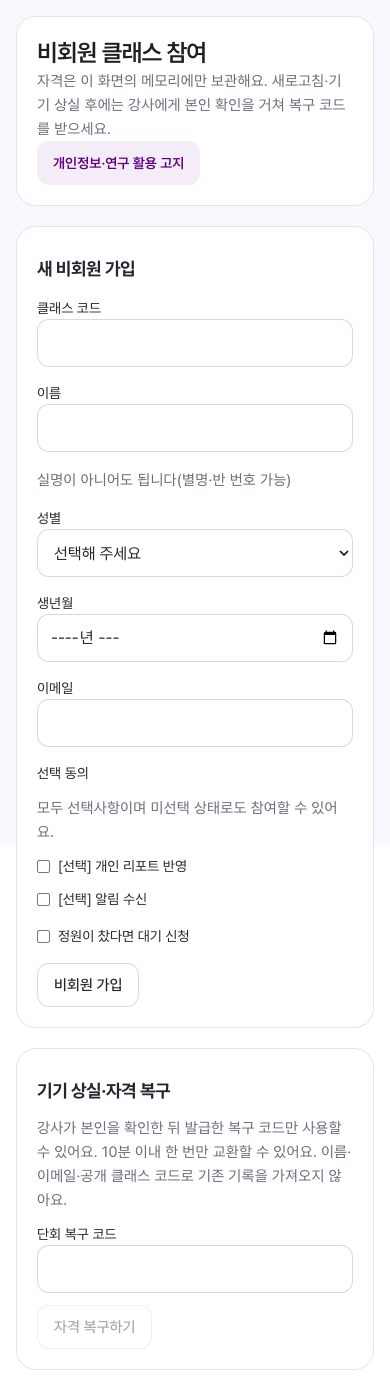
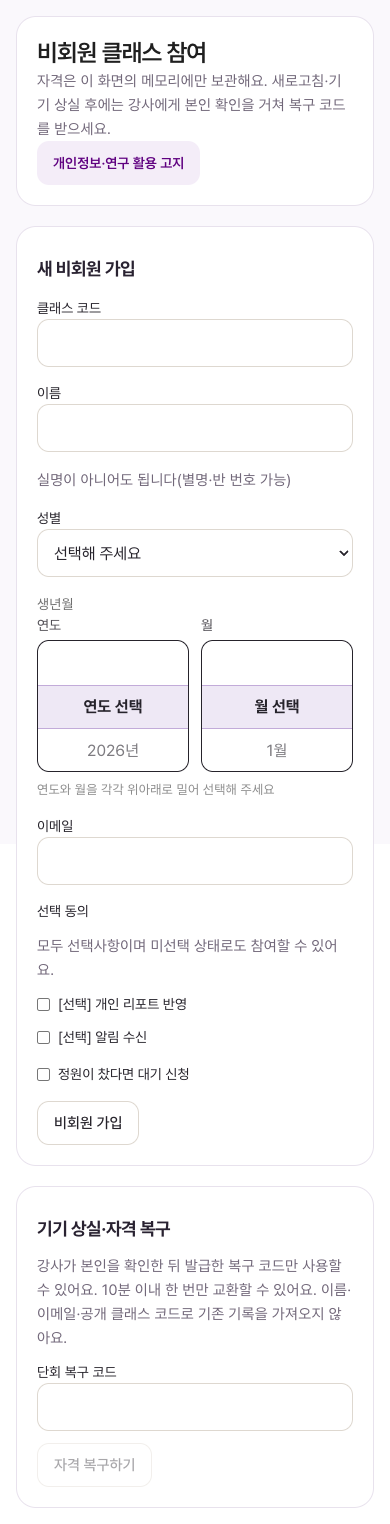
fix: 비회원 생년월을 연도·월 분리 다이얼로 변경

diff --git a/frontend/tests/sdd217-member-operations.test.tsx b/frontend/tests/sdd217-member-operations.test.tsx
@@ -21,13 +21,14 @@ function response(body:unknown,status=200){return new Response(JSON.stringify(bo
 async function mount(node:ReactNode,path='/app/classes/class') { view=document.createElement('div');document.body.append(view);root=createRoot(view);await act(async()=>root.render(<MemoryRouter initialEntries={[path]}>{node}</MemoryRouter>)); }
 async function click(text:string){const button=Array.from(view.querySelectorAll('button')).find(b=>b.textContent===text);expect(button,`버튼 ${text}`).toBeTruthy();await act(async()=>button!.click());}
 function input(label:string,value:string){const field=view.querySelector<HTMLInputElement>(`[aria-label="${label}"]`)!;expect(field).toBeTruthy();const setter=Object.getOwnPropertyDescriptor(HTMLInputElement.prototype,'value')!.set!;setter.call(field,value);field.dispatchEvent(new Event('input',{bubbles:true}));}
+async function chooseBirth(){for(const [label,text] of [['출생 연도','2018년'],['출생 월','1월']])await act(async()=>{Array.from(view.querySelector(`[role="listbox"][aria-label="${label}"]`)!.querySelectorAll<HTMLElement>('[role="option"]')).find(option=>option.textContent===text)!.click();});}
 beforeEach(()=>{calls.length=0;mutationStatus=200;pending=undefined;membership={...membership,member:{...member,status:'active'},capabilities:{...caps}};sessions=[session,{...session,id:'past',status:'completed',seq:1,attendance:{...session.attendance,attendance_status:'absent'},approved_report_ids:['report'],capabilities:{}}];useAuthStore.setState({isAuthenticated:true,user:{id:'user-uuid',email:'user@example.test',name:'회원',role:'client',verified_tier:null,onboarding_completed:true,auth_provider:'email',counselors:[]}});tokenStorage.set('login-token');vi.stubGlobal('IS_REACT_ACT_ENVIRONMENT',true);vi.stubGlobal('fetch',vi.fn(async(url:string,init:RequestInit={})=>{const headers=new Headers(init.headers);const body=init.body?JSON.parse(String(init.body)) as Record<string,unknown>:{};calls.push({url,body,headers});if(init.method==='POST'||init.method==='PUT'){if(pending!==undefined)return new Promise<Response>(resolve=>{pending=resolve;});return response(mutationStatus===200?{class_id:'class',revision:4,credential_bundle:{activity_credential:'activity',read_credential:'read',expires_at:'2099-01-01'},member}: {detail:{code:mutationStatus===409?'stale_class':'action_forbidden'}},mutationStatus);}if(url.endsWith('/me/membership'))return response(membership);if(url.endsWith('/me/attendance'))return response({sessions,total:sessions.length});if(url.endsWith('/participation'))return response({participation_version:7,participants:[]});if(url.endsWith('/reports/report'))return response({id:'report',content:{counselor_comment:'승인된 본인 요약'}});return response({});}));});
 afterEach(async()=>{if(root)await act(async()=>root.unmount());view?.remove();vi.unstubAllGlobals();});
 it('V28 실제 회원 UUID·revision·participation version으로 사전 결석하고 공통 읽기를 갱신한다',async()=>{await mount(<MemberOperations classId="class"/>);await click('사전 결석');const c=calls.find(c=>c.url.endsWith('/attendance')&&c.body.action==='excuse');expect(c?.url).toContain('/members/member-uuid/');expect(c?.body).toMatchObject({action:'excuse',expected_revision:3,expected_participation_version:7});expect(c?.body.operation_key).toBeTruthy();expect(view.textContent).toContain('저장했어요');expect(calls.filter(c=>c.url.endsWith('/me/membership')).length).toBeGreaterThan(1);});
 it.each([403,409])('V28 %s 실패를 명확히 표시하고 최신 내용 다시 불러오기를 제공한다',async(status)=>{mutationStatus=status;await mount(<MemberOperations classId="class"/>);await click('클래스 나가기');expect(view.querySelector('[role="alert"]')?.textContent).toContain(status===409?'최신':'권한');await click('최신 내용 다시 불러오기');});
 it('V29 연속 클릭 중 하나의 쓰기만 보낸다',async()=>{await mount(<MemberOperations classId="class"/>);pending=()=>{};const button=Array.from(view.querySelectorAll('button')).find(b=>b.textContent==='클래스 나가기')!;await act(async()=>{button.click();button.click();});expect(calls.filter(c=>c.url.endsWith('/transition'))).toHaveLength(1);await act(async()=>pending!(response({class_id:'class',revision:4})));});
 it('본인 승인 리포트는 기존 GET으로 보여준다',async()=>{await mount(<MemberOperations classId="class"/>);await click('승인 리포트 보기');expect(view.textContent).toContain('승인된 본인 요약');});
-it('V38 공개 guest 가입은 네 필수 입력·선택 기본 false이며 자격은 header로만 보낸다',async()=>{await mount(<Routes><Route path="/class-members/:classId" element={<GuestClassMembershipPage/>}/></Routes>,'/class-members/class');expect(view.querySelectorAll('input[required], select[required]')).toHaveLength(5);expect(view.textContent).toContain('실명이 아니어도 됩니다(별명·반 번호 가능)');expect(view.textContent).not.toContain('연구 목적 활용 동의');expect(view.querySelector('input[type=month]')).toBeTruthy();await act(async()=>{input('클래스 코드','1234');input('이름','비회원');input('생년월','2018-01');input('이메일','guest@example.test');const gender=view.querySelector('select')!;gender.value='other';gender.dispatchEvent(new Event('change',{bubbles:true}));});const form=view.querySelector('form')!;await act(async()=>form.dispatchEvent(new Event('submit',{bubbles:true,cancelable:true})));const join=calls.find(c=>c.url.endsWith('/guest-memberships'));expect(join?.body).toMatchObject({birth_year_month:'2018-01',guest_name:'비회원',gender:'other',report_email:'guest@example.test',research_consented:false,report_included:false,reminder_opt_in:false});expect(join?.headers.has('Authorization')).toBe(false);expect(calls.find(c=>c.url.endsWith('/me/membership'))?.headers.get('X-Class-Member-Credential')).toBe('activity');expect(view.textContent).not.toContain('연구 목적 활용 동의');expect(view.textContent).not.toContain('연구 동의 명시 철회');expect(JSON.stringify(localStorage)).not.toContain('activity');expect(JSON.stringify(sessionStorage)).not.toContain('activity');});
+it('V38 공개 guest 가입은 네 필수 입력·선택 기본 false이며 자격은 header로만 보낸다',async()=>{await mount(<Routes><Route path="/class-members/:classId" element={<GuestClassMembershipPage/>}/></Routes>,'/class-members/class');expect(view.querySelectorAll('input[required], select[required]')).toHaveLength(4);expect(view.textContent).toContain('실명이 아니어도 됩니다(별명·반 번호 가능)');expect(view.textContent).not.toContain('연구 목적 활용 동의');expect(view.querySelector('input[type=month],input[type=date]')).toBeNull();expect(view.querySelectorAll('[role=listbox]')).toHaveLength(2);await act(async()=>{input('클래스 코드','1234');input('이름','비회원');input('이메일','guest@example.test');const gender=view.querySelector('select')!;gender.value='other';gender.dispatchEvent(new Event('change',{bubbles:true}));});await chooseBirth();const form=view.querySelector('form')!;await act(async()=>form.dispatchEvent(new Event('submit',{bubbles:true,cancelable:true})));const join=calls.find(c=>c.url.endsWith('/guest-memberships'));expect(join?.body).toMatchObject({birth_year_month:'2018-01',guest_name:'비회원',gender:'other',report_email:'guest@example.test',research_consented:false,report_included:false,reminder_opt_in:false});expect(join?.headers.has('Authorization')).toBe(false);expect(calls.find(c=>c.url.endsWith('/me/membership'))?.headers.get('X-Class-Member-Credential')).toBe('activity');expect(view.textContent).not.toContain('연구 목적 활용 동의');expect(view.textContent).not.toContain('연구 동의 명시 철회');expect(JSON.stringify(localStorage)).not.toContain('activity');expect(JSON.stringify(sessionStorage)).not.toContain('activity');});
 it('V28 네트워크 실패 후 같은 작업 재시도는 동일 operation key를 사용한다',async()=>{await mount(<MemberOperations classId="class"/>);let writes=0;const original=globalThis.fetch;vi.stubGlobal('fetch',vi.fn(async(input:RequestInfo|URL,init?:RequestInit)=>{if(String(input).endsWith('/transition')){writes++;if(writes===1){calls.push({url:String(input),body:JSON.parse(String(init?.body)),headers:new Headers(init?.headers)});throw new TypeError('network');}}return original(input,init);}));await click('클래스 나가기');expect(view.querySelector('[role="alert"]')?.textContent).toContain('통신');await click('클래스 나가기');const requests=calls.filter(c=>c.url.endsWith('/transition'));expect(requests[0].body.operation_key).toBe(requests[1].body.operation_key);});
 it('사전 결석 복귀·예약 취소는 별도 서버 capability로 표시한다',async()=>{sessions=[{...session,attendance:{...session.attendance,attendance_status:'excused'},capabilities:{undo_excuse:true}},{...session,id:'makeup',attendance:{...session.attendance,attendance_kind:'makeup'},makeup:{id:'assignment',status:'reserved'},capabilities:{cancel_makeup:true}}];membership={...membership,capabilities:{...caps,request_makeup:false}};await mount(<MemberOperations classId="class"/>);await click('사전 결석 취소');expect(calls.find(c=>c.body.action==='undo_excuse')?.body.expected_participation_version).toBe(7);await click('보강 예약 취소');expect(calls.find(c=>c.url.endsWith('/makeup-assignments/assignment/cancel'))?.body.expected_revision).toBe(3);});
 it('V29 계정 전환 뒤 이전 본인의 늦은 읽기 응답을 표시하지 않는다',async()=>{let resolveOld:(response:Response)=>void=()=>{};const original=globalThis.fetch;let reads=0;vi.stubGlobal('fetch',vi.fn(async(input:RequestInfo|URL,init?:RequestInit)=>{if(String(input).endsWith('/me/membership')&&++reads===1)return new Promise<Response>(resolve=>{resolveOld=resolve;});return original(input,init);}));await mount(<MemberOperations classId="class"/>);await act(async()=>{useAuthStore.setState({user:{...useAuthStore.getState().user!,id:'next-user',name:'다음 사람'}});});await act(async()=>resolveOld(response({...membership,member:{...member,name:'이전 사람 비밀',status:'left'}})));expect(view.textContent).not.toContain('이전 사람 비밀');expect(view.textContent).not.toContain('재가입');});
@@ -44,7 +45,7 @@ it.each(['member','host'])('fix1 %s 출석 응답 유실 재시도는 최초 rev
 async function exchangeGuest(){await act(async()=>input('단회 복구 코드','x'.repeat(40)));await act(async()=>view.querySelectorAll('form')[1].dispatchEvent(new Event('submit',{bubbles:true,cancelable:true})));}
 it('fix1 완료된 guest의 활동 401은 읽기로 전환해 본인 리포트·지정 보강을 유지한다',async()=>{const original=globalThis.fetch;const readCalls:{url:string;credential:string|null}[]=[];vi.stubGlobal('fetch',vi.fn(async(input:RequestInfo|URL,init?:RequestInit)=>{const url=String(input),credential=new Headers(init?.headers).get('X-Class-Member-Credential');if(url.endsWith('/me/membership')||url.endsWith('/me/attendance')){readCalls.push({url,credential});if(credential==='activity')return response({detail:{code:'guest_credential_invalid'}},401);if(url.endsWith('/me/membership'))return response({...membership,member:{...member,status:'completed'},capabilities:{leave:false,edit_consents:false,request_makeup:false}});return response({sessions:[{...session,status:'open',attendance:session.attendance,makeup:null,capabilities:{guest_entry:true},approved_report_ids:['report']}],total:1});}if(url.endsWith('/guest-entry')){calls.push({url,body:JSON.parse(String(init?.body)),headers:new Headers(init?.headers)});return response({session_id:'future',participant_id:'p',entry_credential:'session-only',expires_at:'2099-01-01'});}return original(input,init);}));await mount(<Routes><Route path="/class-members/:classId" element={<GuestClassMembershipPage/>}/><Route path="/class/:sessionId/enter" element={<p>기존 입장</p>}/></Routes>,'/class-members/class');await exchangeGuest();expect(view.textContent).toContain('수료');expect(view.textContent).not.toContain('클래스 나가기');expect(readCalls.some(c=>c.credential==='read')).toBe(true);await click('승인 리포트 보기');expect(calls.find(c=>c.url.endsWith('/reports/report'))?.headers.get('X-Class-Member-Credential')).toBe('read');await click('회차 입장');expect(calls.find(c=>c.url.endsWith('/guest-entry'))?.headers.get('X-Class-Member-Credential')).toBe('read');});
 it.each([401,403,503])('fix1 guest 갱신 %s 중 활동 401만 읽기 자격으로 재시도한다',async(status)=>{const original=globalThis.fetch;const used:string[]=[];vi.stubGlobal('fetch',vi.fn(async(input:RequestInfo|URL,init?:RequestInit)=>{if(String(input).endsWith('/guest-credentials/refresh')){const credential=new Headers(init?.headers).get('X-Class-Member-Credential')!;used.push(credential);if(credential==='activity')return response({detail:{code:'guest_credential_invalid'}},status);return response({credential_bundle:{activity_credential:null,read_credential:'read-renewed',expires_at:'2099-01-01'}});}return original(input,init);}));await mount(<Routes><Route path="/class-members/:classId" element={<GuestClassMembershipPage/>}/></Routes>,'/class-members/class');await exchangeGuest();await click('비회원 자격 갱신');expect(used).toEqual(status===401?['activity','read']:['activity']);if(status===401){const latest=calls.filter(c=>c.url.endsWith('/me/membership')).at(-1);expect(latest?.headers.get('X-Class-Member-Credential')).toBe('read-renewed');}else expect(view.querySelector('[role="alert"]')).toBeTruthy();});
-async function fillGuest(name:string){await act(async()=>{input('클래스 코드','1234');input('이름',name);input('생년월','2018-01');input('이메일',`${name}@example.test`);select('성별','other');});}
+async function fillGuest(name:string){await act(async()=>{input('클래스 코드','1234');input('이름',name);input('이메일',`${name}@example.test`);select('성별','other');});await chooseBirth();}
 it('fix1 A의 선택 동의를 켜고 로그아웃한 뒤 B의 새 가입은 선택이 false이며 연구 동의는 항상 false다',async()=>{await mount(<Routes><Route path="/class-members/:classId" element={<GuestClassMembershipPage/>}/></Routes>,'/class-members/class');await fillGuest('guest-a');await act(async()=>{const checks=view.querySelectorAll<HTMLInputElement>('fieldset input[type="checkbox"]');checks.forEach(check=>check.click());});await act(async()=>view.querySelector('form')!.dispatchEvent(new Event('submit',{bubbles:true,cancelable:true})));await click('비회원 로그아웃');await fillGuest('guest-b');await act(async()=>view.querySelector('form')!.dispatchEvent(new Event('submit',{bubbles:true,cancelable:true})));const joins=calls.filter(c=>c.url.endsWith('/guest-memberships'));expect(joins).toHaveLength(2);expect(joins[0].body).toMatchObject({report_included:true,research_consented:false,reminder_opt_in:true});expect(joins[1].body).toMatchObject({guest_name:'guest-b',report_included:false,research_consented:false,reminder_opt_in:false});});
 it('fix1 명시한 최신 내용 재조회 뒤에는 새 명령 키와 최신 참여 버전을 사용한다',async()=>{let reads=0,revision=3;const writes:Record<string,unknown>[]=[];const original=globalThis.fetch;vi.stubGlobal('fetch',vi.fn(async(input:RequestInfo|URL,init?:RequestInit)=>{const url=String(input);if(url.endsWith('/me/membership'))return response({...membership,revision});if(url.endsWith('/participation'))return response({participation_version:7+reads++});if(url.endsWith('/attendance')&&init?.method==='POST'){writes.push(JSON.parse(String(init.body)));if(writes.length===1){revision=4;throw new TypeError('network');}return response({class_id:'class',revision:4});}return original(input,init);}));await mount(<MemberOperations classId="class"/>);await click('사전 결석');await click('최신 내용 다시 불러오기');await click('사전 결석');expect(writes[1].operation_key).not.toBe(writes[0].operation_key);expect(writes[1]).toMatchObject({expected_revision:4,expected_participation_version:8});});
 it('fix1 연구 철회 사유를 바꾸면 새 본문에 새 키를 사용한다',async()=>{const original=globalThis.fetch;const writes:Record<string,unknown>[]=[];vi.stubGlobal('fetch',vi.fn(async(input:RequestInfo|URL,init?:RequestInit)=>{if(String(input).endsWith('/me/research-withdrawal')){writes.push(JSON.parse(String(init?.body)));if(writes.length===1)throw new TypeError('network');return response({class_id:'class',revision:4});}return original(input,init);}));await mount(<MemberOperations classId="class"/>);await act(async()=>input('연구 철회 사유','첫 사유'));await click('이 클래스 연구 동의 철회');await act(async()=>input('연구 철회 사유','변경한 사유'));await click('이 클래스 연구 동의 철회');expect(writes[1].reason).toBe('변경한 사유');expect(writes[1].operation_key).not.toBe(writes[0].operation_key);});

diff --git a/frontend/src/pages/client/guest-class-membership-page.tsx b/frontend/src/pages/client/guest-class-membership-page.tsx
@@ -1,3 +1,4 @@
+import { BirthYearMonthWheel } from '../../components/forms/birth-year-month-wheel';
 import { birthToIso } from '../../lib/class/flow/member-entry';
 import { ApiError } from '../../lib/api/client';
 import { useAuthStore } from '../../stores/authStore';
@@ -34,7 +35,7 @@ function GuestClassMembership({classId}:{classId:string}){
  };
  return <main className="cs-structure min-h-screen bg-[#faf8fc] p-4 sm:p-8"><MemberClassStyles/><div className="mc-stack"><section className="mc-card"><h1 className="text-2xl font-semibold">비회원 클래스 참여</h1><p className="mc-muted">자격은 이 화면의 메모리에만 보관해요. 새로고침·기기 상실 후에는 강사에게 본인 확인을 거쳐 복구 코드를 받으세요.</p><a className="mc-link" href="/privacy" target="_blank" rel="noreferrer">개인정보·연구 활용 고지</a></section>
  {credential&&bundle?<><MemberOperations classId={classId} credential={credential} readCredential={bundle.read_credential} onCredentials={accept} onActivityUnauthorized={switchToReadCredential}/><section className="mc-card space-y-3"><p className="mc-muted">자격 만료: {new Date(bundle.expires_at).toLocaleString('ko-KR')}</p><div className="flex flex-wrap gap-3"><button className={operationButton} disabled={busy} onClick={()=>void run(async()=>{const result=await withCredentialFallback(token=>membershipApi.guestRefresh(classId,token));accept(result.credential_bundle);})}>비회원 자격 갱신</button><button className={operationButton} disabled={busy} onClick={()=>void run(async()=>{await withCredentialFallback(token=>membershipApi.guestLogout(classId,token));if(alive.current){resetJoinChoices();setBundle(null);setMessage('로그아웃했어요. 모든 이전 비회원 자격이 회수됐어요.');}})}>비회원 로그아웃</button></div></section></>:<>
- <form className="mc-card space-y-4" onSubmit={e=>{e.preventDefault();join();}}><h2>새 비회원 가입</h2><label className="block">클래스 코드<input aria-label="클래스 코드" className={operationInput} required inputMode="numeric" pattern="[0-9]{4}" maxLength={4} value={code} onChange={e=>setCode(e.target.value)}/></label><label className="block">이름<input aria-label="이름" className={operationInput} required maxLength={100} value={name} onChange={e=>setName(e.target.value)}/></label><p className="mc-muted">실명이 아니어도 됩니다(별명·반 번호 가능)</p><label className="block">성별<select aria-label="성별" className={operationInput} required value={gender} onChange={e=>setGender(e.target.value)}><option value="">선택해 주세요</option><option value="male">남성</option><option value="female">여성</option><option value="other">기타</option></select></label><label className="block">생년월<input aria-label="생년월" className={operationInput} type="month" min="1900-01" max={`${new Date().getFullYear()}-${String(new Date().getMonth()+1).padStart(2,'0')}`} required value={birth} onChange={e=>setBirth(e.target.value)}/></label><label className="block">이메일<input aria-label="이메일" className={operationInput} type="email" required maxLength={320} value={email} onChange={e=>setEmail(e.target.value)}/></label>
+ <form className="mc-card space-y-4" onSubmit={e=>{e.preventDefault();join();}}><h2>새 비회원 가입</h2><label className="block">클래스 코드<input aria-label="클래스 코드" className={operationInput} required inputMode="numeric" pattern="[0-9]{4}" maxLength={4} value={code} onChange={e=>setCode(e.target.value)}/></label><label className="block">이름<input aria-label="이름" className={operationInput} required maxLength={100} value={name} onChange={e=>setName(e.target.value)}/></label><p className="mc-muted">실명이 아니어도 됩니다(별명·반 번호 가능)</p><label className="block">성별<select aria-label="성별" className={operationInput} required value={gender} onChange={e=>setGender(e.target.value)}><option value="">선택해 주세요</option><option value="male">남성</option><option value="female">여성</option><option value="other">기타</option></select></label><div><p>생년월</p><BirthYearMonthWheel id="guest-birth" value={birth} onChange={setBirth}/></div><label className="block">이메일<input aria-label="이메일" className={operationInput} type="email" required maxLength={320} value={email} onChange={e=>setEmail(e.target.value)}/></label>
  <fieldset className="space-y-3"><legend>선택 동의</legend><p className="mc-muted">모두 선택사항이며 미선택 상태로도 참여할 수 있어요.</p><label className="flex gap-2"><input type="checkbox" checked={report} onChange={e=>setReport(e.target.checked)}/>[선택] 개인 리포트 반영</label><label className="flex gap-2"><input type="checkbox" checked={reminder} onChange={e=>setReminder(e.target.checked)}/>[선택] 알림 수신</label></fieldset><label className="flex gap-2"><input type="checkbox" checked={waitlist} onChange={e=>setWaitlist(e.target.checked)}/>정원이 찼다면 대기 신청</label><button className={operationButton} disabled={busy}>{waitlist?'비회원 대기 신청':'비회원 가입'}</button></form>
  <form className="mc-card space-y-3" onSubmit={e=>{e.preventDefault();void run(async()=>{const result=await membershipApi.guestExchange(classId,exchange.trim());accept(result.credential_bundle);});}}><h2>기기 상실·자격 복구</h2><p className="mc-muted">강사가 본인을 확인한 뒤 발급한 복구 코드만 사용할 수 있어요. 10분 이내 한 번만 교환할 수 있어요. 이름·이메일·공개 클래스 코드로 기존 기록을 가져오지 않아요.</p><label className="block">단회 복구 코드<input aria-label="단회 복구 코드" className={operationInput} type="password" autoComplete="off" value={exchange} onChange={e=>setExchange(e.target.value)}/></label><button className={operationButton} disabled={busy||exchange.trim().length<32}>자격 복구하기</button></form>
  </>}{error&&<p role="alert" className="mc-card">{error}</p>}{message&&<p role="status" className="mc-card">{message}</p>}</div></main>;

diff --git a/frontend/src/components/forms/birth-year-month-wheel.tsx b/frontend/src/components/forms/birth-year-month-wheel.tsx
@@ -1,0 +1,79 @@
+import { useEffect, useId, useLayoutEffect, useRef, useState } from 'react';
+import './birth-year-month-wheel.css';
+
+const ROW_HEIGHT = 44;
+interface WheelOption { value: string; label: string }
+interface WheelProps { label: string; options: WheelOption[]; value: string; onChange: (value: string) => void }
+
+function Wheel({ label, options, value, onChange }: WheelProps) {
+  const id = useId();
+  const ref = useRef<HTMLDivElement>(null);
+  const timer = useRef<ReturnType<typeof setTimeout> | undefined>(undefined);
+  const latest = useRef({ options, value, onChange });
+  latest.current = { options, value, onChange };
+  const index = Math.max(0, options.findIndex(option => option.value === value));
+  useLayoutEffect(() => {
+    // 초기 위치 동기화는 선택 이벤트를 발생시키지 않는다.
+    if (ref.current) ref.current.scrollTop = index * ROW_HEIGHT;
+  }, [index]);
+  useEffect(() => () => clearTimeout(timer.current), []);
+  const select = (next: number) => {
+    clearTimeout(timer.current);
+    const current = latest.current;
+    const option = current.options[Math.max(0, Math.min(current.options.length - 1, next))]!;
+    current.onChange(option.value);
+  };
+  return <div className="birth-wheel-column">
+    <span className="birth-wheel-label">{label === '출생 연도' ? '연도' : '월'}</span>
+    <div className="birth-wheel-window">
+      <div className="birth-wheel-highlight" aria-hidden="true" />
+      <div ref={ref} role="listbox" aria-label={label} aria-activedescendant={`${id}-${index}`} tabIndex={0} className="birth-wheel-scroll"
+        onScroll={() => {
+          clearTimeout(timer.current);
+          const target = ref.current;
+          timer.current = setTimeout(() => {
+            if (!target) return;
+            const current = latest.current;
+            const next = Math.max(0, Math.min(current.options.length - 1, Math.round(target.scrollTop / ROW_HEIGHT)));
+            if (current.options[next]!.value !== current.value) select(next);
+          }, 100);
+        }}
+        onKeyDown={event => {
+          const next = event.key === 'ArrowDown' ? index + 1 : event.key === 'ArrowUp' ? index - 1 : event.key === 'Home' ? 0 : event.key === 'End' ? options.length - 1 : null;
+          if (next !== null) { event.preventDefault(); select(next); }
+        }}>
+        {options.map((option, itemIndex) => <div key={option.value} id={`${id}-${itemIndex}`} role="option" aria-selected={value === option.value} className="birth-wheel-option" onClick={() => select(itemIndex)}>{option.label}</div>)}
+      </div>
+    </div>
+  </div>;
+}
+
+interface Props { id: string; value: string; onChange: (value: string) => void; invalid?: boolean; now?: Date }
+/** 연도·월은 독립적으로 고른다. 두 값이 완성되기 전에는 빈 문자열만 전달한다. */
+export function BirthYearMonthWheel({ id, value, onChange, invalid, now = new Date() }: Props) {
+  const [parts, setParts] = useState(() => ({ year: value.slice(0, 4), month: value.slice(5, 7) }));
+  const lastEmitted = useRef(value);
+  useEffect(() => {
+    if (value !== lastEmitted.current) {
+      lastEmitted.current = value;
+      setParts({ year: value.slice(0, 4), month: value.slice(5, 7) });
+    }
+  }, [value]);
+  const currentYear = now.getFullYear();
+  const maxMonth = Number(parts.year) === currentYear ? now.getMonth() + 1 : 12;
+  const years: WheelOption[] = [{ value: '', label: '연도 선택' }, ...Array.from({ length: currentYear - 1899 }, (_, index) => ({ value: String(currentYear - index), label: `${currentYear - index}년` }))];
+  const months: WheelOption[] = [{ value: '', label: '월 선택' }, ...Array.from({ length: maxMonth }, (_, index) => ({ value: String(index + 1).padStart(2, '0'), label: `${index + 1}월` }))];
+  const change = (field: 'year' | 'month', selected: string) => {
+    const next = { ...parts, [field]: selected };
+    if (Number(next.year) === currentYear && Number(next.month) > now.getMonth() + 1) next.month = '';
+    setParts(next);
+    const result = next.year && next.month ? `${next.year}-${next.month}` : '';
+    lastEmitted.current = result;
+    onChange(result);
+  };
+  return <div id={id} role="group" aria-label="생년월" aria-invalid={invalid || undefined} className="birth-year-month-wheel">
+    <Wheel label="출생 연도" options={years} value={parts.year} onChange={selected => change('year', selected)} />
+    <Wheel label="출생 월" options={months} value={parts.month} onChange={selected => change('month', selected)} />
+    <p className="birth-wheel-help">연도와 월을 각각 위아래로 밀어 선택해 주세요</p>
+  </div>;
+}

diff --git a/frontend/tests/birth-year-month-wheel.test.tsx b/frontend/tests/birth-year-month-wheel.test.tsx
@@ -1,0 +1,37 @@
+// @vitest-environment jsdom
+import { act } from 'react';
+import { createRoot } from 'react-dom/client';
+import { afterEach, expect, it, vi } from 'vitest';
+import { BirthYearMonthWheel } from '../src/components/forms/birth-year-month-wheel';
+Object.assign(globalThis, { IS_REACT_ACT_ENVIRONMENT: true });
+let root: ReturnType<typeof createRoot>;
+let box: HTMLDivElement;
+afterEach(async () => { await act(async () => root.unmount()); box.remove(); vi.useRealTimers(); });
+async function mount(value = '') { box = document.createElement('div'); document.body.append(box); root = createRoot(box); const change = vi.fn(); await act(async () => root.render(<BirthYearMonthWheel id="birth" value={value} onChange={change} now={new Date('2026-10-24T12:00:00Z')}/>)); return change; }
+function wheel(name: string) { return box.querySelector<HTMLElement>(`[role="listbox"][aria-label="${name}"]`)!; }
+async function choose(name: string, text: string) { await act(async () => { Array.from(wheel(name).querySelectorAll<HTMLElement>('[role="option"]')).find(el => el.textContent === text)!.click(); }); }
+it('연도와 월은 미선택에서 시작하며 둘 다 선택해야 연월을 보낸다', async () => {
+ const change = await mount(); expect(change).not.toHaveBeenCalled(); expect(box.querySelectorAll('input[type="date"], input[type="month"]')).toHaveLength(0);
+ await choose('출생 연도', '2018년'); expect(change).toHaveBeenLastCalledWith('');
+ await choose('출생 월', '3월'); expect(change).toHaveBeenLastCalledWith('2018-03');
+ expect(wheel('출생 연도').querySelector('[aria-selected="true"]')?.textContent).toBe('2018년');
+});
+it('스크롤과 키보드로 각 다이얼을 독립 선택할 수 있다', async () => {
+ vi.useFakeTimers(); const change = await mount('2018-03');
+ const month = wheel('출생 월'); await act(async () => { month.scrollTop = 4 * 44; month.dispatchEvent(new Event('scroll')); vi.advanceTimersByTime(150); });
+ expect(change).toHaveBeenLastCalledWith('2018-04');
+ await act(async () => { wheel('출생 연도').dispatchEvent(new KeyboardEvent('keydown', {key:'ArrowDown', bubbles:true})); });
+ expect(change).toHaveBeenLastCalledWith('2017-04');
+});
+it('현재 연도를 고르면 미래 월은 선택 불가하고 이전 미래 월 선택을 해제한다', async () => {
+ const change = await mount('2018-12'); await choose('출생 연도', '2026년'); expect(change).toHaveBeenLastCalledWith('');
+ expect(Array.from(wheel('출생 월').querySelectorAll('[role="option"]')).some(el => el.textContent === '12월')).toBe(false);
+ await choose('출생 월', '10월'); expect(change).toHaveBeenLastCalledWith('2026-10');
+});
+it('지연 중인 연도 스크롤은 그 사이 바꾼 월을 보존한다', async () => {
+ vi.useFakeTimers(); const change = await mount('2018-03');
+ await act(async () => { const year=wheel('출생 연도');year.scrollTop=10*44;year.dispatchEvent(new Event('scroll')); });
+ await choose('출생 월', '4월');
+ await act(async () => { vi.advanceTimersByTime(150); });
+ expect(change).toHaveBeenLastCalledWith('2017-04');
+});

diff --git a/frontend/tests/class-flow-member-entry-views.test.tsx b/frontend/tests/class-flow-member-entry-views.test.tsx
@@ -41,6 +41,12 @@ async function type(el: HTMLInputElement, value: string): Promise<void> {
     el.dispatchEvent(new Event('input', { bubbles: true }));
   });
 }
+async function chooseBirth(year: string, month: string): Promise<void> {
+  for (const [label, text] of [['출생 연도', year], ['출생 월', month]]) {
+    const wheel = document.querySelector(`[role="listbox"][aria-label="${label}"]`)!;
+    await act(async () => { Array.from(wheel.querySelectorAll<HTMLElement>('[role="option"]')).find(option => option.textContent === text)!.click(); });
+  }
+}
 async function click(el: HTMLElement): Promise<void> {
   await act(async () => { el.click(); });
 }
@@ -115,9 +121,10 @@ describe('FM04b 개인정보 입력', () => {
   const summary = { title: '마음챙김 명상', startLabel: '오늘 오후 3:00 시작', hostName: '채용욱' };
   it('이름·성별·생년월·이메일·이메일 확인 입력과 입장하기가 있고 인증 DOM 은 없다', async () => {
     await render(<ProfileEntryView summary={summary} mode="guest" draft={emptyProfileDraft()} errors={{}} submitError={null} submitting={false} onChange={noop} onSubmit={noop} onBack={noop} />);
-    expect(qa('input')).toHaveLength(4);
+    expect(qa('input')).toHaveLength(3);
     expect(text()).toContain('실명이 아니어도 됩니다(별명·반 번호 가능)');
-    expect(document.getElementById('fm-birth')?.getAttribute('type')).toBe('month');
+    expect(qa('[role="listbox"]')).toHaveLength(2);
+    expect(qa('input[type=month],input[type=date]')).toHaveLength(0);
     expect(text()).not.toContain('생년월일');
     expect(qa('[role="radio"]').map((r) => r.textContent)).toEqual(['여성', '남성', '선택 안 함']);
     expect(text()).toContain('채용욱 상담사');
@@ -197,7 +204,7 @@ describe('/join 컨테이너', () => {
 
     await type(document.getElementById('fm-name') as HTMLInputElement, '지은');
     await click(qa('[role="radio"]')[0] as HTMLElement);
-    await type(document.getElementById('fm-birth') as HTMLInputElement, '1990-03');
+    await chooseBirth('1990년', '3월');
     await type(document.getElementById('fm-email') as HTMLInputElement, 'jieun@example.com');
     await type(document.getElementById('fm-email2') as HTMLInputElement, 'jieun@example.com');
     expect(btn('입장하기').disabled).toBe(true); // 녹음·녹화 필수 동의 전에는 입장할 수 없다
@@ -237,7 +244,7 @@ describe('/join 컨테이너', () => {
     await enterCode('0042');
     await type(document.getElementById('fm-name') as HTMLInputElement, '지은');
     await click(qa('[role="radio"]')[1] as HTMLElement);
-    await type(document.getElementById('fm-birth') as HTMLInputElement, '1990-03');
+    await chooseBirth('1990년', '3월');
     await type(document.getElementById('fm-email') as HTMLInputElement, 'jieun@example.com');
     await type(document.getElementById('fm-email2') as HTMLInputElement, 'jieun@example.com');
     await agreeRecording();

diff --git a/frontend/src/components/class/flow/member/ProfileEntryView.tsx b/frontend/src/components/class/flow/member/ProfileEntryView.tsx
@@ -1,6 +1,7 @@
 // SDD-209 M0 — FM04b 개인정보 입력(이름·성별·생년월·이메일 + 재입력). 이메일 인증(OTP)은 없다.
 // 로그인 회원은 계정 값을 읽기 전용으로 보여 주고 확인만 한다.
 import type { ReactNode } from 'react';
+import { BirthYearMonthWheel } from '../../../forms/birth-year-month-wheel';
 import { CircleAlert, Clock, Mail, User } from 'lucide-react';
 import { GENDER_OPTIONS, isProfilePristine, type EntryProfileDraft, type EntryProfileErrors, type EntryProfileMode } from '../../../../lib/class/flow/member-entry';
 import { FlowButton, FlowCard } from '../shared/flow-primitives';
@@ -92,11 +93,8 @@ export function ProfileEntryView({ summary, mode, draft, errors, submitError, su
           </div>
           <div className="fm-field">
             <FieldHead error={errors.birth}><label className="fl-label" htmlFor="fm-birth">{member ? '생년월일' : '생년월'}</label></FieldHead>
-            <input
-              className="fm-input" id="fm-birth" type={member ? 'text' : 'month'} min={member ? undefined : '1900-01'} max={member ? undefined : `${new Date().getFullYear()}-${String(new Date().getMonth() + 1).padStart(2, '0')}`} inputMode="numeric" autoComplete="off" placeholder={member ? undefined : '예: 2018-03'}
-              value={draft.birth} readOnly={member} aria-invalid={errors.birth ? true : undefined}
-              onChange={(e) => onChange({ birth: e.target.value })}
-            />
+            {member ? <input className="fm-input" id="fm-birth" type="text" value={draft.birth} readOnly /> :
+              <BirthYearMonthWheel id="fm-birth" value={draft.birth} invalid={Boolean(errors.birth)} onChange={(birth) => onChange({ birth })} />}
           </div>
           <div className="fm-field">
             <FieldHead error={errors.email}><label className="fl-label" htmlFor="fm-email">이메일</label></FieldHead>

diff --git a/frontend/src/components/forms/birth-year-month-wheel.css b/frontend/src/components/forms/birth-year-month-wheel.css
@@ -1,0 +1,13 @@
+.birth-year-month-wheel { display: grid; grid-template-columns: minmax(0, 1fr) minmax(0, 1fr); gap: 8px 12px; color: inherit; }
+.birth-wheel-column { min-width: 0; }
+.birth-wheel-label { display: block; margin-bottom: 4px; font-size: 14px; opacity: .8; }
+.birth-wheel-window { position: relative; height: 132px; border: 1px solid currentColor; border-radius: 12px; overflow: hidden; }
+.birth-wheel-highlight { position: absolute; top: 44px; left: 0; right: 0; height: 44px; background: rgba(150, 110, 190, .16); border-block: 1px solid rgba(150, 110, 190, .5); pointer-events: none; }
+.birth-wheel-scroll { height: 132px; overflow-y: auto; padding-block: 44px; box-sizing: border-box; scroll-snap-type: y mandatory; overscroll-behavior-y: contain; scrollbar-width: none; touch-action: pan-y; position: relative; }
+.birth-wheel-scroll::-webkit-scrollbar { display: none; }
+.birth-wheel-scroll:focus-visible { outline: 3px solid #aa82cf; outline-offset: -3px; border-radius: 11px; }
+.birth-wheel-option { height: 44px; display: flex; align-items: center; justify-content: center; scroll-snap-align: center; font-size: 16px; cursor: pointer; opacity: .6; user-select: none; }
+.birth-wheel-option[aria-selected=true] { font-weight: 700; opacity: 1; }
+.birth-wheel-help { grid-column: 1 / -1; margin: 0; font-size: 13px; line-height: 1.5; opacity: .8; }
+/* 몰입형 입장 화면의 어두운 배경에서도 안내문 대비를 유지한다. */
+.pz-root .birth-wheel-help { color: var(--tx-mid); opacity: 1; }

diff --git a/fix-notes/guest-institution-minor/summary.md b/fix-notes/guest-institution-minor/summary.md
@@ -34,11 +34,11 @@ Brian의 2026-10-24 확정 D3에 따라 비회원 코드 입장과 장기 비회
 - RED: 백엔드 핵심 4실패/5통과로 연월 입력 거절·과거 비회원 연구 포함 재현, 프론트 11실패/62통과로 새 계약 재현. 추가 준비 요약·약관도 RED 확인 후 수정했다.
 - 관련 pytest: **97 passed**. 비회원·연구 동의·반출·SDD-241·리포트 목록 날짜를 포함한다.
 - 백엔드 전체: **3991 passed, 463 skipped, 79 warnings**, 실패 0(449.81초). SQLite 인메모리 및 격리된 저장소 테스트이며 PostgreSQL 검증이 아니다.
-- 관련 vitest: **9파일 125 passed**. 방침 금지어 검사 포함.
-- 전체 vitest: **249파일 2804 passed / 기존 4파일 10 failed**(총 253파일·2814테스트, 111.96초). 실패 파일은 `agent-counselor-page`, `chat-message-deeplink`, `sdd220-native-release`, `sdd234-a-mobile-home`이며 이외 신규 실패 0.
+- 관련 vitest(다이얼 포함): **11파일 146 passed**. 방침 금지어 검사 포함.
+- 전체 vitest: **250파일 2808 passed / 기존 4파일 10 failed**(총 254파일·2818테스트, 105.42초). 실패 파일은 `agent-counselor-page`, `chat-message-deeplink`, `sdd220-native-release`, `sdd234-a-mobile-home`이며 이외 신규 실패 0.
 - `npx tsc -b`, `npm run build`, `git diff --check` 통과. 기존 번들 크기·동적 import 경고는 남아 있다.
 - 의존성은 기존 Storybook/Vite peer 충돌 때문에 `npm ci --legacy-peer-deps`로 설치했으며 package/lock은 변경하지 않았다.
-- 브라우저 하네스의 Vite 8 모듈별 hash 불일치는 로컬 캐시를 유지한 채 본인 개발 서버만 재시작해 해결했다. 테스트 단언·제품 코드는 바꾸지 않았다. 별도 브라우저 4파일 7테스트 통과 후 전체를 다시 실행했다. 중간 실패·중단 실행은 최종 통과 증거로 사용하지 않는다.
+- 브라우저 하네스의 Vite 8 모듈별 hash 불일치는 로컬 캐시를 유지한 채 본인 개발 서버만 재시작해 해결했다. 테스트 단언·제품 코드는 바꾸지 않았다. 별도 브라우저 4파일 7테스트 통과 후 전체를 다시 실행했다. 후속 다이얼 전체 회귀에서는 디스크 metadata 덮어쓰기가 재현되어 검증 서버의 metadata 응답만 실행 중인 hash로 제공했다(`verification-env.md`). 중간 실패·중단 실행은 최종 통과 증거로 사용하지 않는다.
 
 ## 390px 직접 확인
 
@@ -59,3 +59,21 @@ Brian의 2026-10-24 확정 D3에 따라 비회원 코드 입장과 장기 비회
 - 과거 이미 외부에 적재된 사본은 회수·삭제하지 않았다. 과거 회원·비회원 혼합 업로드 배치도 안전상 전체 차단되어 회원분 재반출은 별도 운영 후속 과제다.
 - 보호자 서면 동의 확인은 기관 운영·계약 책임이며 앱이 동의서를 수집하거나 검증하지 않는다. 계약·동의서의 법적 적정성은 법무 검토가 필요하다.
 - 서버·실DB·.env·회원가입 정책 수정, 파일·데이터·브랜치 삭제, 메일 발송, 머지·develop push·배포는 하지 않았다. 로컬 Vite는 합성 화면 검증 용도로만 사용했다.
+
+## 전달
+
+- 구현 커밋: `90e9265c` (한글 메시지).
+- `git push -u origin fix/guest-institution-minor` 완료.
+- PR: https://github.com/Brian-Chae/mindbreeze_2.0/pull/85 (base: develop, 요청 제목 그대로).
+- 로컬 합성 검증용 Vite만 실행 후 종료했다.
+
+## 후속 요청: 연도·월 분리 다이얼
+
+- Brian의 후속 요청에 따라 단일 month 입력을 두 개의 독립 스크롤 다이얼로 교체했다. 공통 `BirthYearMonthWheel`을 코드 입장과 장기 비회원 폼에서 사용한다. 회원의 읽기 전용 생일 표시는 유지한다.
+- 각 다이얼은 44px 항목 3행, 중앙 선택 강조, 터치 스크롤·클릭·방향키·Home/End를 제공한다. 연도와 월을 모두 선택해야 YYYY-MM이 완성되며 미래월은 선택할 수 없다.
+- 미선택 상태와 부분 선택을 보존한다. 지연된 스크롤 타이머는 최신 상태를 참조하여 다른 열의 새 선택을 덮지 않는다. 어두운 입장 화면의 도움말은 기존 색상 토큰으로 대비를 유지한다.
+- 후속 plan·verify는 구현 전 `fb30a056`에 커밋했다. 다이얼 회귀 테스트의 구현 전 실패를 확인했고, 관련 11파일 **146 passed**, `tsc -b` 및 최종 build가 통과했다. 소스 및 대비 수정까지 독립 재리뷰에서 Important 0건.
+- 390px Chrome에서 연도 2018·월 3을 선택하고, 실제 스크롤 위치 변경으로 4월에 정착한 뒤 ArrowUp으로 3월을 다시 선택했다. 실제 전송은 여전히 `birth_year_month: 2018-03`이며 date/month 입력 0, 각 다이얼 1, overflow 0, pageerror 0이다. 외부 HTTP·WebSocket을 차단하며 로컬 Vite HMR만 허용한다.
+- `screenshots/entry-390.png`와 `membership-390.png`를 다이얼 화면으로 갱신하고 직접 확인했다. 실기기의 관성 스크롤 감각은 미검증이다. 백엔드는 후속 요청에서 수정하지 않았으므로 앞서 완료한 전체 pytest 결과가 유효하다.
+
+- 다이얼 포함 최종 전체 vitest: **2808 passed / 기존 4파일 10 failed**, 신규 실패 0. 최종 build·diff 검사 통과.

diff --git a/fix-notes/guest-institution-minor/verification-env.md b/fix-notes/guest-institution-minor/verification-env.md
@@ -1,0 +1,27 @@
+# 전체 vitest의 로컬 브라우저 검증 환경
+
+기존 CJS 브라우저 테스트는 5175 Vite와 `node_modules/.vite/deps/_metadata.json`의 browserHash를 사용한다. Vite 8은 실행 중인 모듈의 hash와 디스크 metadata가 달라질 수 있고, 전체 vitest 중 디스크 값이 덮이는 현상을 확인했다. 이 경우 소스가 같아도 report-server-pdf 등에서 504/중복 React 로딩으로 실패한다.
+
+제품 코드·기존 테스트 단언을 바꾸지 않고 검증하기 위해, `/tmp`의 Vite 구성에 아래 읽기 전용 middleware를 추가했다. metadata HTTP 응답만 실행 중인 개발 서버의 값으로 제공한다. 소스·.env·실서버를 변경하지 않는다.
+
+```js
+import config from '/절대/워크트리/frontend/vite.config.ts';
+export default { ...config, plugins: [...config.plugins, {
+  name: 'verification-live-deps-metadata',
+  configureServer(server) {
+    server.middlewares.use((req, res, next) => {
+      if (req.url?.split('?')[0] !== '/node_modules/.vite/deps/_metadata.json') return next();
+      const metadata = server.environments.client.depsOptimizer?.metadata;
+      res.setHeader('Content-Type', 'application/json');
+      res.end(JSON.stringify({ browserHash: metadata?.browserHash }));
+    });
+  },
+}] };
+```
+
+1. `frontend`에서 이 구성을 지정한 로컬 Vite를 5175로 실행한다.
+2. `/src/main.tsx`를 한 번 요청하여 최적화를 완료하고, 같은 구성·캐시 그대로 본인 Vite만 재시작한다. Vite가 캐시를 다시 읽으면 모듈별 hash가 공통 hash로 복원된다.
+3. metadata 응답의 hash와 main.tsx의 React/ReactDOM import hash가 일치하는지 확인한다.
+4. `npm test` 전체를 실행한다. 실행 완료 뒤 본인 Vite만 종료한다.
+
+최종 실행은 `/tmp/guest-minor-vite-current-metadata.mjs`를 사용했다. 캡처는 별도 실제 React 화면·합성 API 스크립트로 검증했다. 이 환경 보정은 제품 동작 수정이나 기존 실패 단언 제거가 아니다.

diff --git a/fix-notes/guest-institution-minor/verify.md b/fix-notes/guest-institution-minor/verify.md
@@ -18,7 +18,7 @@
 
 ## 후속 요청 — 구현 전 다이얼 검증
 
-- [ ] 코드 입장·장기 비회원에서 연도/월을 독립된 스크롤 다이얼로 선택 가능.
-- [ ] 터치·클릭 및 키보드 조작, 빈값·잘못된값·미래월 검증 유지.
-- [ ] 두 다이얼 선택으로 YYYY-MM만 전송, 일자 입력·나이 차단 없음.
-- [ ] 관련 vitest·tsc·build 및 390px 실제 다이얼 캡처 확인 후 기존 PR 갱신.
+- [x] 코드 입장·장기 비회원에서 연도/월을 독립된 스크롤 다이얼로 선택 가능.
+- [x] 터치·클릭 및 키보드 조작, 빈값·잘못된값·미래월 검증 유지.
+- [x] 두 다이얼 선택으로 YYYY-MM만 전송, 일자 입력·나이 차단 없음.
+- [x] 관련 vitest·tsc·build 및 390px 실제 다이얼 캡처 확인 후 기존 PR 갱신.
